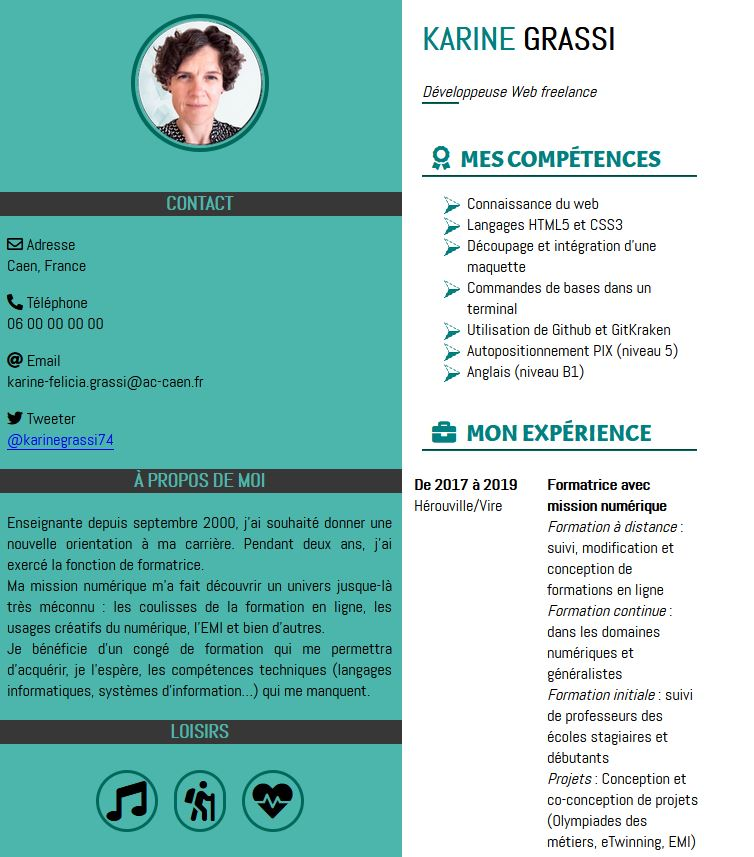
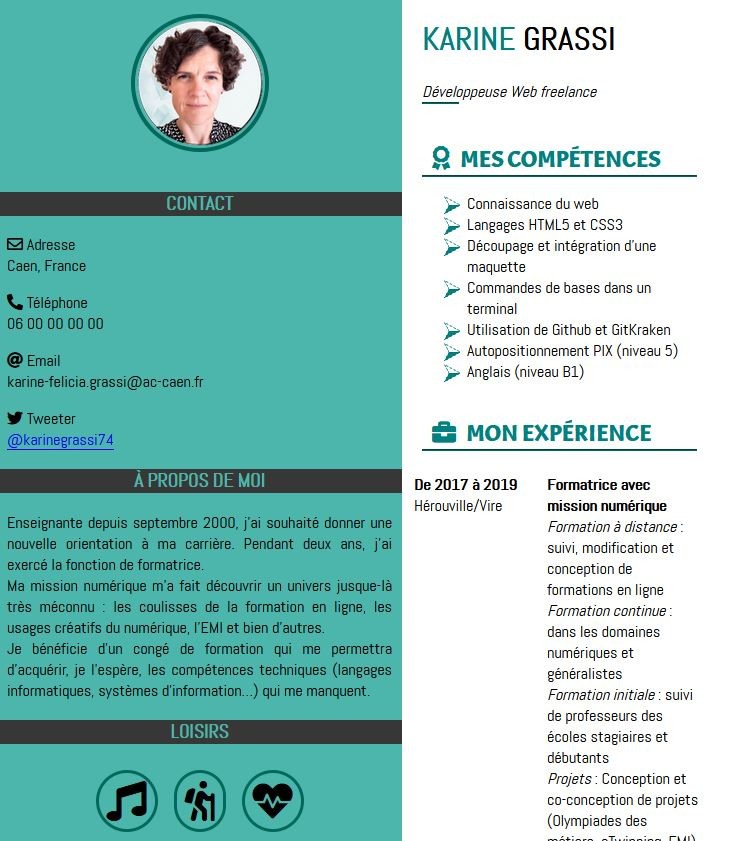
suppression article "compétences"

diff --git a/cvkg.html b/cvkg.html
@@ -47,60 +47,31 @@
 			</header>
 
 			<section>
-				
-				<div id="mes_competences">
-					<h2><i class="fas fa-award"></i>Mes compétences</h2>
-					<hr/>
-					<ul>
-						<li>Connaissance du web </li>
-						<li>Langages HTML5 et CSS3 </li>
-						<li>Découpage et intégration d'une maquette </li>
-						<li>Commandes de bases dans un terminal </li>
-						<li>Utilisation de Github et GitKraken</li>
-						<li>Autopositionnement PIX (niveau 5)</li>
-						<li>Anglais (niveau B1)</li>
-					</ul>
-				</div>
-
-				<div id="mon_experience">
-					<h2><i class="fas fa-briefcase"></i>Mon expérience</h2>
-					<hr/>
-					<table>
-						<tr>
-							<td class="td_exp"><h4>De 2017 à 2019</h4>					Hérouville/Vire</td>
-							<td><h4> Formatrice avec mission numérique </h4> Formation à distance <em>: suivi, modification et conception de formations en ligne</em> <br/> 
-							Formation continue <em>: dans les domaines numériques et généralistes</em> <br/>
-							Formation initiale <em>: suivi de professeurs des écoles stagiaires et débutants</em> <br/>
-							Projets <em>: Conception et co-conception de projets (Olympiades des métiers, eTwinning, EMI)</em> <br/>
-							<em>Accompagnement des enseignants et des collectivités dans leur projet d’équipement</em></td>	
-						</tr>
-
-						<tr>
-							<td class="td_exp"><h4>De 2004 à 2017</h4>
-							Mouen </td>
-							<td><h4>Professeure des écoles et directrice d'une école maternelle</h4>
-							Gestion administrative <br/>
-							Présidence de conseils <br/>
-							Pilotage des équipes pédagogique et éducative</td>					
-						</tr>
-					
-						<tr>
-							<td class="td_exp"><h4>De 1998 à 2004</h4>
-					Calvados </td>
-							<td><h4> Professeure des écoles </h4> </td>
-						</tr>
-					
-					</table>
-				</div>
-				
-				<div id="ma_formation">
-					<h2><i class="fas fa-graduation-cap"></i>Ma formation</h2>
+				<div id="formation">
+					<h2><i class="fas fa-graduation-cap"></i>Formation</h2>
 					<hr/>
 					<table>
 						<tr>
 							<td><h4>2019 (en cours)</h4>
 					OpenClassrooms</td>
-							<td><h4> BTS développeur web </h4></td>
+							<td><h4> BTS développeur web </h4>
+							<ul>
+								<li>Connaissance du web </li>
+								<li>Langages HTML5 et CSS3 </li>
+								<li>Découpage et intégration d'une maquette </li>
+								<li>Commandes de bases dans un terminal </li>
+								<li>Utilisation de Github et GitKraken</li>
+							</ul></td>
+						</tr>
+
+						<tr>
+							<td><h4>2018 </h4>
+					Cours en ligne</td>
+							<td><h4>Autopositionnement</h4>
+							<ul>
+								<li>Autopositionnement PIX (niveau 5)</li>
+								<li>Anglais (niveau B1)</li>
+							</ul></td>
 						</tr>
 
 						<tr>
@@ -116,6 +87,45 @@
 						</tr>					
 					</table>
 				</div>
+
+				<div id="experience">
+					<h2><i class="fas fa-briefcase"></i>Expérience</h2>
+					<hr/>
+					<table>
+						<tr>
+							<td class="td_exp"><h4>De 2017 à 2019</h4>					Hérouville/Vire</td>
+							<td><h4> Formatrice avec mission numérique </h4> 
+								<ul>
+									<li>Formation à distance <em>: suivi, modification et conception de formations en ligne</em></li>	
+									<li>Formation continue <em>: dans les domaines numériques et généralistes</em> </li>
+									<li>Formation initiale <em>: suivi de professeurs des écoles stagiaires et débutants</em> </li>
+									<li>Projets <em>: Conception et co-conception de projets (Olympiades des métiers, eTwinning, EMI)</em> </li>
+								</ul>
+							<em>Accompagnement des enseignants et des collectivités dans leur projet d’équipement</em></td>	
+						</tr>
+
+						<tr>
+							<td class="td_exp"><h4>De 2004 à 2017</h4>
+							Mouen </td>
+							<td><h4>Professeure des écoles et directrice d'une école maternelle</h4>
+							<ul>
+								<li>Gestion administrative </li>
+								<li>Présidence de conseils </li>
+								<li>Pilotage des équipes pédagogique et éducative</li>
+							</ul>
+							</td>					
+						</tr>
+					
+						<tr>
+							<td class="td_exp"><h4>De 1998 à 2004</h4>
+					Calvados </td>
+							<td><h4> Professeure des écoles </h4> </td>
+						</tr>
+					
+					</table>
+				</div>
+				
+				
 
 			</section>
 

diff --git a/style.css b/style.css
@@ -1,17 +1,5 @@
 /* /////////////////////////// polices //////////////////////*/ 
 @font-face {
-    font-family: 'acmeregular';
-    src: url('polices/acme_regular_macroman/Acme-Regular-webfont.eot');
-    src: url('polices/acme_regular_macroman/Acme-Regular-webfont.eot?#iefix') format('embedded-opentype'),
-         url('polices/acme_regular_macroman/Acme-Regular-webfont.woff2') format('woff2'),
-         url('polices/acme_regular_macroman/Acme-Regular-webfont.woff') format('woff'),
-         url('polices/acme_regular_macroman/Acme-Regular-webfont.ttf') format('truetype'),
-         url('polices/acme_regular_macroman/Acme-Regular-webfont.svg#acmeregular') format('svg');
-    font-weight: normal;
-    font-style: normal;
-}
-
-@font-face {
 	font-family: "abel";
 	src: url("polices/abel/abel-regular-webfont.eot");
 	src: url('polices/abel/abel-regular-webfont.woff2') format('woff2'),
@@ -59,15 +47,13 @@ header hr /*petite ligne sous Développeuse*/
 
 h1
 {
-margin-bottom: 0px; /* ne suffit pas à réduire l'interligne */
-padding-bottom: 0px; /* pas d'effet */
+	margin-bottom: -20px; 
 }
 
 h2
 {
 	text-transform: uppercase;
 	color: teal;
-	font-family: 'acmeregular';
 	text-align: left;
 	margin:20px 20px 0px 30px;
 }
@@ -79,13 +65,14 @@ hr /*grandes lignes sous les h2*/
 	padding-top: 0px;
 }
 
-#mes_competences li /*liste avec puces*/
+section ul
+{
+	margin-top: 0px;
+}
+section li /*liste sans puce*/
 {
 	list-style-type: none;
-	background-image: url(images/puce.png);
-	background-repeat: no-repeat;
-	background-position: 0 0.1em;
-	padding-left: 25px;
+	margin-left: -40px;
 }
 
 h3
@@ -169,7 +156,7 @@ section
 	justify-content: space-around;
 }
 
-#mes_competences, #mon_experience, #ma_formation
+#experience, #formation
 {
 	min-width: 300px;
 }
@@ -216,7 +203,7 @@ footer ul
 		flex-direction: column;
 	}
 
-	#mon_experience em
+	#experience em
 	{
 		display: none;
 	}
@@ -267,7 +254,7 @@ footer ul
 		display: inline-block;
 	}
 
-	aside header, #moi
+	aside header, #moi, aside footer
 	{
 		display: none;
 	}
